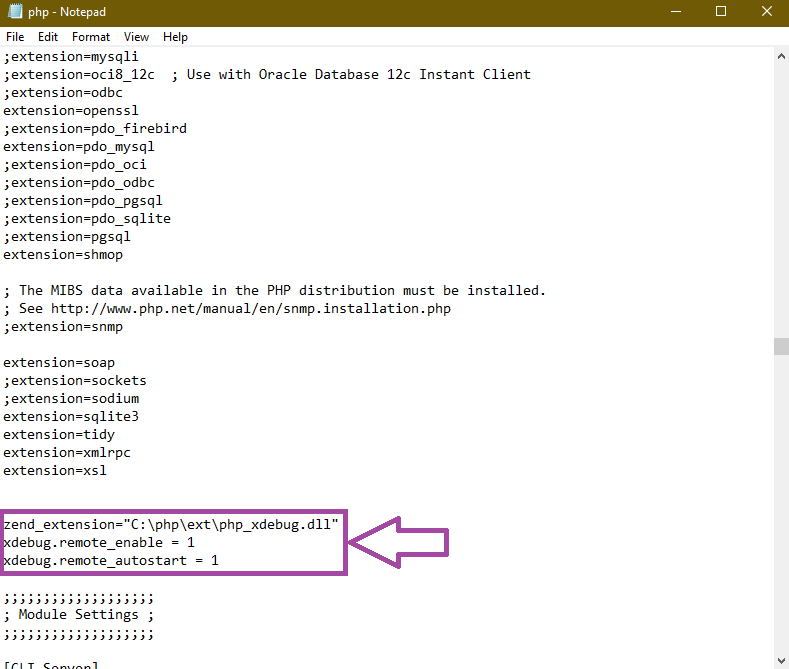
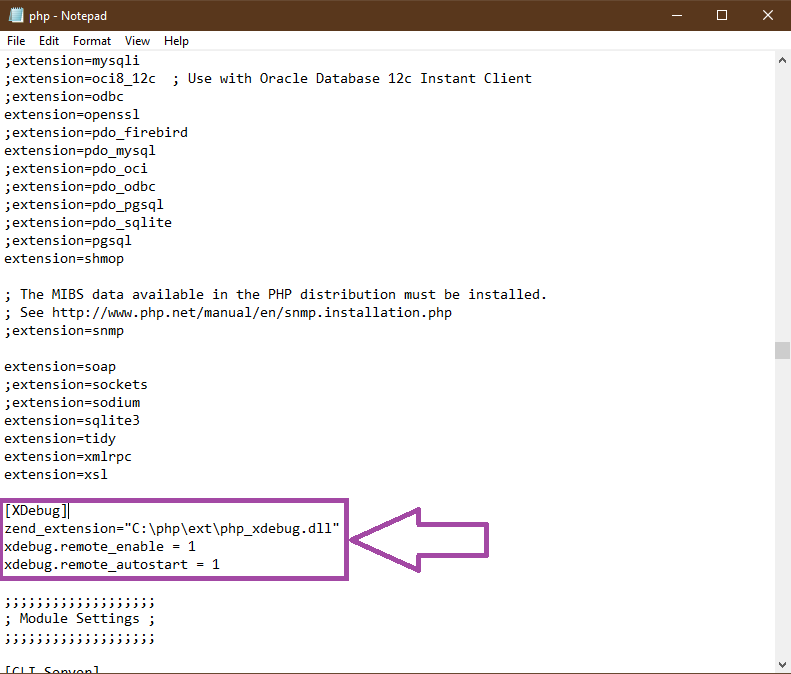
1. Made changes to side bar - format and slight changes 2. Made changes to installation - added tina4 installation documentation 3. Made changes to readme and recommendation - format  and slight changes

diff --git a/docs/installation.md b/docs/installation.md
@@ -8,9 +8,9 @@
 
 # Installation
 
-To make the magic of Tina4 possible, there are various tools you need to install first. Below you will find a list of the tools you need and how to install them.
-
 # Required
+
+To make the magic of Tina4 possible, there are various tools you need to install first. Below you will find a list of the tools you need and how to install them.
 
 * IDE development tool
 * PHP 7.1 or greater
@@ -131,56 +131,6 @@ Complete the installation by restarting your system so that changes may take eff
 
 <div align="center" alt="Successful Installation Confirmation">
     <img src="images/confirm.png">
-</div>
-
-## Install Xdebug
-
-Follow these instructions to install Xdebug on your system.
-
-##### Step 1 
- 
-Head to the Xdebug page and download the corresponding version for PHP on your Operating System. For example, in this case the PHP version used is VC15 x64bit Thread Safe 7.4.1.
-            
-Here's the link: [Xdebug](https://xdebug.org/download)
-
-<div align="center" alt="Xdebug Website">
-    <img src="images/xdebug.png">
-</div>
-    
-##### Step 2 
-
-After the download is complete, extract/unpack or copy the file into the "ext" folder found in your PHP directory. (e.g. C:/php/ext) 
-    
-    It is recommended you rename the file (eg. "php_xdebug-2.9.6-7.4-vc15-x86_64.dll" ) to "php_xdebug.dll".
-
-<div align="center" alt="Installing Xdebug">
-    <img src="images/xdebug1.png">
-</div>
-
-##### Step 3 
-
-Once the file have been extracted, you will need to edit the configuration settings file. 
-
-Configure "php.ini" file:
-
-        Go to your PHP folder and open "php.ini" with Notepad or your IDE tool. 
-        Add the following line "zend_extension="C:\php\ext\php_xdebug.dll" in the extensions directory list (HINT: its above Module Settings) . 
-            *Please ensure that the "php_xdebug.dll" file location is correct* 
-        Add the following line "xdebug.remote_enable = 1" in the extensions directory list.
-        Add the following line "xdebug.remote_autostart = 1 " in the extensions directory list.
-        Press Ctrl+S or save changes you just made to "php.ini" file.
-
-<div align="center" alt="Configure php.ini file for Xdebug">
-    <img src="images/xdebug2.png">
-</div>
-
-##### Step 3 
- 
-Complete the installation by restarting your system so that changes may take effect.After this you can confirm if the installation was a success by opening your command terminal (e.g Command Prompt or terminal in your IDE tool) and typing in "php -m" and pushing Enter. 
-This will display all modules loaded in your PHP. At the bottom of the list you should see the "Zend Modules" heading and "Xdebug" will be listed underneath. 
-
-<div align="center" alt="Confirm Successful Xdebug Installation">
-    <img src="images/xdebug3.png">
 </div>
             
 ## Install Composer
@@ -313,31 +263,106 @@ Visit [cloudwafer.com](https://cloudwafer.com/blog/installing-openssl-on-ubuntu-
 
  
 ## Install Tina4
+
 Once the prerequisites have been installed you can create a project folder and proceed to run the Tina4 installation.
 
-Running this in your IDE terminal or command line then install Tina4 will start installing and create all the dependencies between your libraries and components.
+##### Step 1
 
-##### If you have project folder
+First you will need a folder in which Tina4 will be installed. In this example the folder is named tina4-php. Make your project directory by running this command in your terminal:
 
-* Step 1 > Ensure your command terminal is pointed to the right directory by running this command in your terminal:
+      mkdir your_project_folder
+      
+<div align="center" alt="Create Directory">
+    <img src="images/directory2.png">
+</div>
+
+##### Step 2
+
+Once your project folder has been created, you will need to direct the command line to go into the fodler you just created. In this example the folder is named "tina4-php". For more information on how to navigate directories with command line, please visit How To Geek by clicking this link: [How To Geek](https://www.howtogeek.com/659411/how-to-change-directories-in-command-prompt-on-windows-10/)Ensure your command terminal is pointed to the right directory by running this command in your terminal:
     
       cd your_project_folder
+      
+<div align="center" alt="CMD Directory">
+    <img src="images/directory.png">
+</div>
 
-* Step 2 > Run "composer require andrevanzuydam/tina4php" in your command terminal
+##### Step 3 
 
-##### If you dont have project folder
+Once you've created the project folder and went into it via the command line, you will need to create an "index.php" file which has the Tina4 methods and functions in it. Run the following command in your command terminal to create the required "index.php" file and contents:
 
-* Step 1 > Make your project directory by running this command in your terminal:
+###### For Windows 
 
-      mkdir tina4example
+    echo ^<?php require_once "vendor/autoload.php"; echo new \Tina4\Tina4Php(); ^ > index.php
 
-* Step 2 > Ensure your command terminal is pointed to the right directory by running this command in your terminal:
-       
-       cd your_project_folder
+<div align="center" alt="Create index file for Windows">
+    <img src="images/indexfile.png">
+</div>
 
-* Step 3 > Run "composer require andrevanzuydam/tina4php" in your command terminal
+###### For Linux & Mac 
 
+    echo '<?php require "vendor/autoload.php"; echo new \Tina4\Tina4Php();' > index.php
+    
+<div align="center" alt="Create index file for Linux & Mac">
+    <img src="images/indexfile1.png">
+</div>
 
-aaaaaaaaaand Voila! Tina4 is installed and now you have everything you need to start bringing your ideas to life. 
+A PHP file will be created in the project folder you made and will look like this... 
 
-![alt text](../icons/ms-icon-310x310.png)
+<div align="center" alt="Created index file">
+    <img src="images/indexfile2.png">
+</div>
+
+##### Step 4
+
+Great, now that the "index.php" file has been created, we will install all the Tina4 libraries and dependencies in the project folder. Run "composer require andrevanzuydam/tina4php" in your IDE terminal or command line then Tina4 will start installing and create all the dependencies between your libraries and components. The terminal will inform you once the installation is complete. 
+
+<div align="center" alt="Composer Command">
+    <img src="images/directory1.png">
+</div>
+
+Your project folder will now look like this... 
+
+<div align="center" alt="Folder">
+    <img src="images/folder.png">
+</div>
+
+##### Step 5
+
+Almost there... Now you must create an ".env" file in your project folder. This file will be used to setup constants in your project needed for Tina4. Run "echo .>.env" in your IDE terminal or command line.
+
+    echo .>.env
+    
+<div align="center" alt="Env Command">
+    <img src="images/envfile.png">
+</div> 
+
+Your project folder will now look like this... 
+
+<div align="center" alt="Folder">
+    <img src="images/folder1.png">
+</div>
+
+##### Step 6
+
+Now that we created and installed everything we need to run Tina4, we can test to check if it was successful. Spin up a webserver by running "php -S localhost:7145 index.php" in your IDE terminal or command line. Once you ran the command, go to your browser and type "localhost:7145" in your URL address bar and hit enter (or click the address in the terminal). 
+ 
+    php -S localhost:7145 index.php
+    
+<div align="center" alt="Spin up WebServer">
+    <img src="images/webserver.png">
+</div>
+
+If the Tina4 404 error page loads, that means everything is working perfectly...
+
+<div align="center" alt="Error">
+    <img src="images/tinaerror.png">
+</div>
+
+aaaaaaaaaand Voila! Tina4 is now installed and you have everything you need to start bringing your ideas to life.   
+
+Continue to [recommendations](recommendations.md) or [how do I?](howdoi.md)
+
+<div align="center" alt="Tina4">
+    <img src="images/ms-icon-310x310.png">
+</div>
+

diff --git a/docs/recommendations.md b/docs/recommendations.md
@@ -8,7 +8,8 @@
 
 # Recommendations
 
-## Introduction
+## What to consider ?
+
 If you already have a good work flow up and running then you can skip this bit, 
 however if you do not have an IDE which can do step by step debugging then I'd pause for a while and consider some of 
 the thoughts here.
@@ -26,20 +27,63 @@ Two popular IDEs which support PHP debugging are:
 * [Visual Studio Code](https://code.visualstudio.com/download)
 * [PHPStorm](https://www.jetbrains.com/phpstorm/download)
 
+The most popular PHP debugging extension is [Xdebug](https://xdebug.org/docs/install) and we recommend that you get this installed as soon as you have your PHP up 
+and running.
+
+## Install Xdebug
+
+Follow these instructions to install Xdebug on your system.
+
+##### Step 1 
+ 
+Head to the Xdebug page and download the corresponding version for PHP on your Operating System. For example, in this case the PHP version used is VC15 x64bit Thread Safe 7.4.1.
+            
+Here's the link: [Xdebug](https://xdebug.org/download)
+
+<div align="center" alt="Xdebug Website">
+    <img src="images/xdebug.png">
+</div>
+    
+##### Step 2 
+
+After the download is complete, extract/unpack or copy the file into the "ext" folder found in your PHP directory. (e.g. C:/php/ext) 
+    
+    It is recommended you rename the file (eg. "php_xdebug-2.9.6-7.4-vc15-x86_64.dll" ) to "php_xdebug.dll".
+
+<div align="center" alt="Installing Xdebug">
+    <img src="images/xdebug1.png">
+</div>
+
+##### Step 3 
+
+Once the file have been extracted, you will need to enable remote debugging by editing the configuration settings file. 
+
+Configure "php.ini" file:
+
+        Go to your PHP folder and open "php.ini" with Notepad or your IDE tool. 
+            *Please ensure that the "php_xdebug.dll" file location is correct* 
+        Add the following in the extensions directory list (HINT: its above Module Settings):
+            [XDebug]
+            zend_extension="C:\php\ext\php_xdebug.dll
+            xdebug.remote_enable = 1
+            xdebug.remote_autostart = 1
+        Press Ctrl+S or save changes you just made to "php.ini" file.
+
+<div align="center" alt="Configure php.ini file for Xdebug">
+    <img src="images/xdebug2.png">
+</div>
+
+##### Step 3 
+ 
+Complete the installation by restarting your system so that changes may take effect.After this you can confirm if the installation was a success by opening your command terminal (e.g Command Prompt or terminal in your IDE tool) and typing in "php -m" and pushing Enter. 
+This will display all modules loaded in your PHP. At the bottom of the list you should see the "Zend Modules" heading and "Xdebug" will be listed underneath. 
+
+<div align="center" alt="Confirm Successful Xdebug Installation">
+    <img src="images/xdebug3.png">
+</div>
+
 ## Debugging
 
-The most popular PHP debugging extension is [Xdebug](https://xdebug.org/docs/install) and we recommend that you get this installed as soon as you have your PHP up 
-and running, there is a lot of documentation out there that will get you up and running quickly.
-
-See [How Do I - Install Xdebug](../docs/howdoi.md/#Install Xdebug)
-
-Most important is to enable remote debugging in your php.ini file 
-
-```sh
-[XDebug]
-xdebug.remote_enable = 1
-xdebug.remote_autostart = 1
-```
 The default port that debugging is enabled on for xdebug is 9000 and because we are not really remote there are some recommended ways to run Tina4 from
 the commandline to make debugging work.
 

diff --git a/docs/README.md b/docs/README.md
@@ -5,26 +5,31 @@
 // Copyright (C)
 // Contact : andre@codeinfinity.co.za
 -->
-## Tina4 - This is Not Another Framework ##
-# Getting Started
+## Getting Started
+
 Tina4 is a light weight routing and templating system which allows you to write websites and API applications very quickly.
 This is not another framework. Keep things simple and efficient. Tina4 is perfect if you want to build a website, run a CMS, create APIs or if you want to learn a structured PHP framework.
 
 ## How Tina can help you?
 
-Tina uses the following methods to make development quicker
+Tina uses the following methods to make development quicker:
 
 * PHP built in web server
 * Twig Templating
 * Annotated Routes for Swagger UI
 * Simple code layout and structure
 
-## Requires
+## What Tina4 requires ?
 
-* IDE development tool > Tool used when writing code, debugging or version control Eg. PHPStorm; Visual Studio Code
-* PHP 7.1 >  Open source general-purpose scripting language used in software/web development
-* Composer > PHP package manager used to manage dependence between your libraries and PHP software/website 
-* OpenSSL > A toolkit used for Security Layer protocols between a computer network and Internet servers
+These are the tools you need for Tina4
+
+* IDE development tool : Tool used when writing code, debugging or version control Eg. PHPStorm; Visual Studio Code
+
+* PHP 7.1 or greater : Open source general-purpose scripting language used in software/web development
+
+* Composer : PHP package manager used to manage dependence between your libraries and PHP software/website 
+
+* OpenSSL : A toolkit used for Security Layer protocols between a computer network and Internet servers
 
 ## Who should use Tina4 ?
 
@@ -34,4 +39,4 @@ Tina uses the following methods to make development quicker
 * Bloggers
 * Content Creators
 
-Continue to [recommendations](recommendations.md) or [installation](installation.md)
+Continue to [installation](installation.md) or [recommendations](recommendations.md)  

diff --git a/docs/_sidebar.md b/docs/_sidebar.md
@@ -6,7 +6,7 @@
 // Contact : andre@codeinfinity.co.za
 -->
 
-   * [Getting Started](/)
+   * [Tina4 - This is Not Another Framework](/)
    * [Installation](installation.md)
    * [Recommendations](recommendations.md)
    * [How do I?](howdoi.md)
